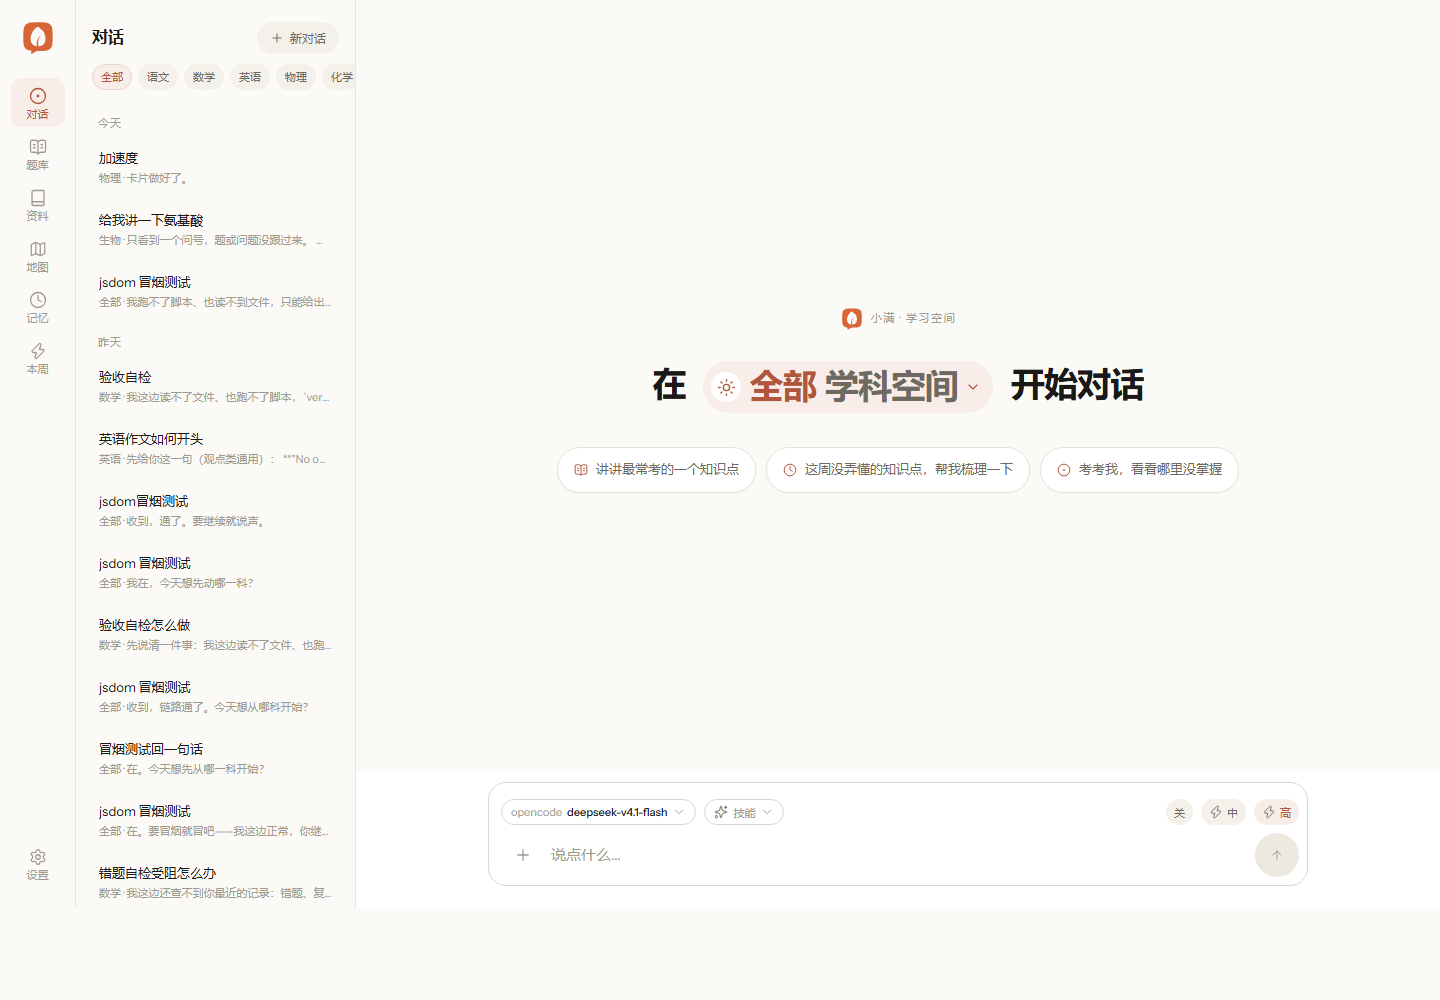
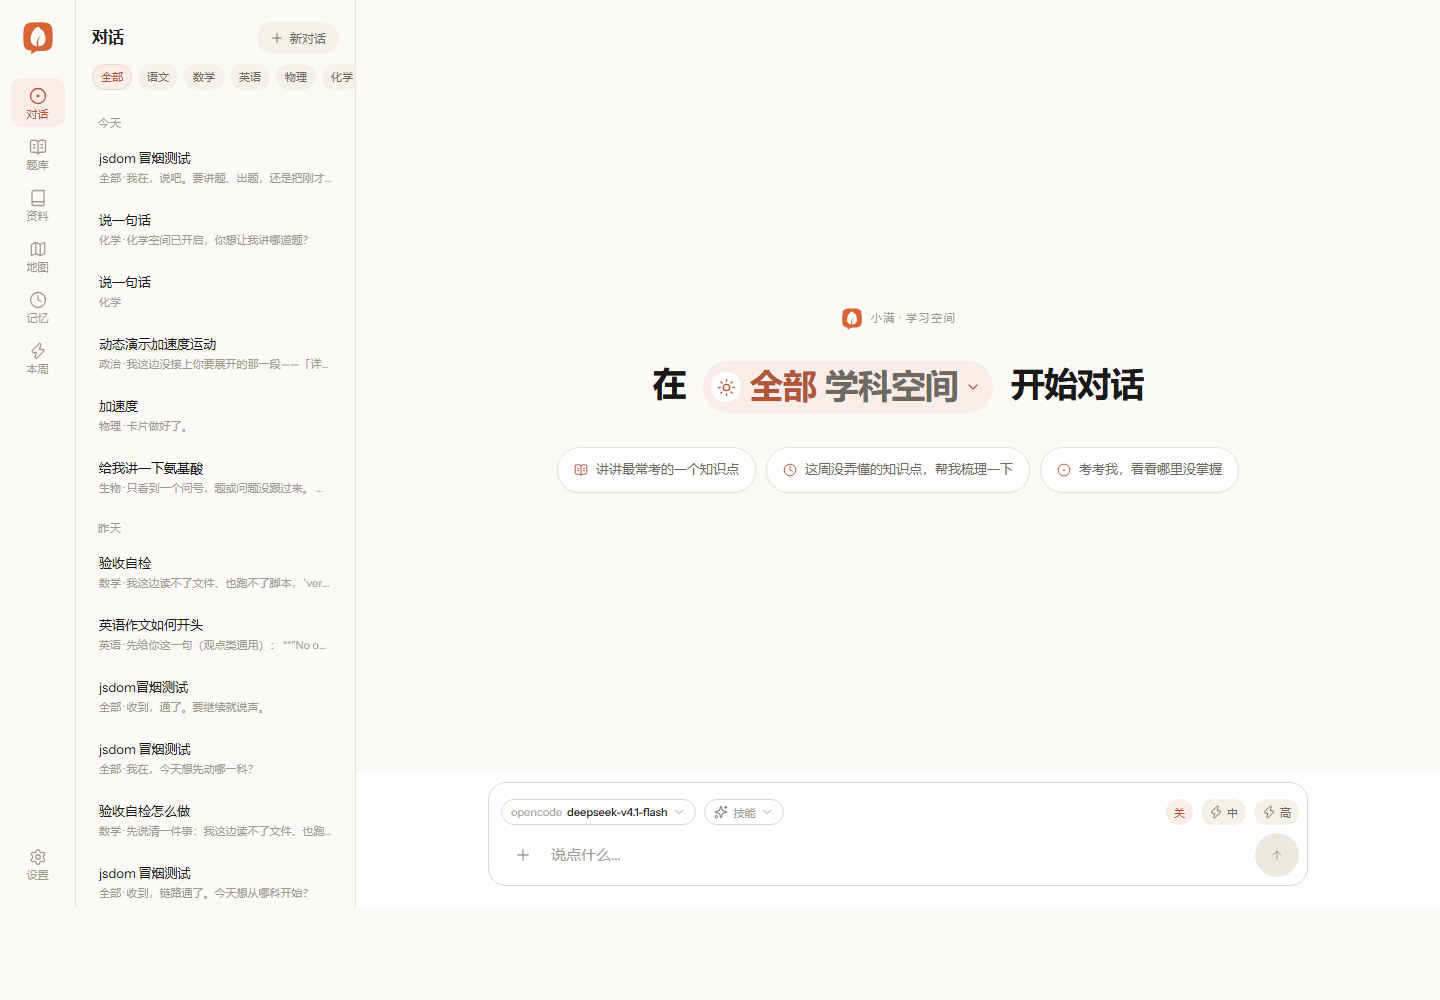
feat(agent): 受限工作区文件工具，技能自生成网页/PDF 并发布；移除继续改按钮

diff --git a/web/app.js b/web/app.js
@@ -2656,6 +2656,11 @@
     quiz_create: ['出题检测', 'circle-dot'],
     make_webpage: ['生成讲解网页', 'globe'],
     make_pdf: ['生成 PDF', 'book-open-text'],
+    file_list: ['看工作区', 'book-open-text'],
+    file_read: ['读文件', 'book-open-text'],
+    file_write: ['写文件', 'book'],
+    file_edit: ['改文件', 'book'],
+    publish: ['发布文件', 'globe'],
     make_card: ['生成知识卡片', 'image'],
     make_flashcards: ['生成记忆闪卡', 'book']
   };
@@ -2952,8 +2957,6 @@
       '<div class="shd"><div class="ttl" id="am-ttl">' + esc(o.title || '资料') + '</div>' +
       '<button type="button" class="hit" data-act="close-sheet" aria-label="关闭">' + ic('x') + '</button></div>' +
       '<div class="sheet-body"><div class="artlist">' +
-        '<button type="button" class="caprow" data-act="artifact-continue" data-id="' + esc(o.id) + '">' +
-          '<span class="rowmain">' + ic('sparkles', 'sm') + '继续改</span></button>' +
         '<button type="button" class="caprow" data-act="artifact-rename-open" data-id="' + esc(o.id) + '">' +
           '<span class="rowmain">' + ic('settings', 'sm') + '重命名</span></button>' +
         (dl ? '<a class="caprow" href="' + esc(dl) + '"><span class="rowmain">' + ic('book-open-text', 'sm') + '下载</span></a>' : '') +
@@ -3067,7 +3070,7 @@
     host.innerHTML = '<div class="pvhead"><div class="pvt">' + esc(a.title || '资料') + '</div>' +
       '<div class="pvmeta">' + (a.parent_title ? '改自 ' + esc(a.parent_title) + ' · ' : '') + esc(k[0]) + ' · ' + esc(fmtBytes(a.bytes)) + '</div>' +
       '<div class="sp"></div>' +
-      '<button type="button" class="pvact" data-act="artifact-continue" data-id="' + esc(a.id) + '">继续改</button>' +
+      '<button type="button" class="pvact" data-act="artifact-rename-open" data-id="' + esc(a.id) + '">改名</button>' +
       '<a class="pvact" href="' + esc(a.url) + '" target="_blank" rel="noopener">新窗口</a>' +
       '<a class="pvact" href="' + esc(dl) + '">下载</a>' +
       '<button type="button" class="pvx" data-act="close-preview" aria-label="关闭预览">' + ic('x') + '</button></div>' +
@@ -3219,17 +3222,19 @@
     var head = [];
     head.push(totalMs ? '思考 ' + stepSecs(totalMs) : (tools ? '调用工具' : '记忆'));
     if (tools) {
-      var cat = { question: 0, web: 0, memory: 0, create: 0 };
+      var cat = { question: 0, web: 0, memory: 0, file: 0, create: 0 };
       toolNames.forEach(function (n) {
         if (n.indexOf('question_') === 0) cat.question += 1;
         else if (n === 'web_search') cat.web += 1;
         else if (n.indexOf('memory_') === 0) cat.memory += 1;
-        else if (n.indexOf('make_') === 0 || n === 'quiz_create') cat.create += 1;
+        else if (n.indexOf('file_') === 0) cat.file += 1;
+        else if (n === 'publish' || n.indexOf('make_') === 0 || n === 'quiz_create') cat.create += 1;
       });
       var bits = [];
       if (cat.question) bits.push('查题库 ' + cat.question + ' 次');
       if (cat.web) bits.push('搜索 ' + cat.web + ' 次');
       if (cat.memory) bits.push('查记忆 ' + cat.memory + ' 次');
+      if (cat.file) bits.push('工作区 ' + cat.file + ' 次');
       if (cat.create) {
         var uniq = createNames.filter(function (v, i, a) { return a.indexOf(v) === i; });
         bits.push(uniq.length === 1 ? toolMeta(uniq[0])[0] : '生成 ' + cat.create + ' 次');

diff --git a/server/app/services/artifacts.py b/server/app/services/artifacts.py
@@ -383,6 +383,51 @@ def save_artifact(
     return artifact
 
 
+def workspace_root() -> Path:
+    p = Path(settings.workspace_dir)
+    if p.is_absolute():
+        return p.resolve()
+    # 从 server/ 或仓库根启动都能找到 agent/workspaces
+    for base in (Path.cwd(), Path(__file__).resolve().parents[2]):
+        q = (base / p).resolve()
+        if q.exists():
+            return q
+    return (Path.cwd() / p).resolve()
+
+
+def publish_workspace(
+    db: Session,
+    *,
+    conversation_id: str,
+    message_id: str | None,
+    path: str,
+    title: str,
+    kind: str = "html",
+    subject: str = "",
+    skill: str = "",
+) -> Artifact:
+    """把受限工作区里的 HTML 文件发布成资料库产物；PDF 交给 Edge 打印。"""
+    ws = workspace_root() / conversation_id
+    target = (ws / path).resolve()
+    if not target.is_relative_to(ws.resolve()) or not target.is_file():
+        raise ValueError("工作区里没有这个文件")
+    doc = target.read_text(encoding="utf-8")
+    if not doc.strip():
+        raise ValueError("文件是空的")
+    real_kind = "pdf" if kind == "pdf" else "html"
+    return save_artifact(
+        db,
+        conversation_id=conversation_id,
+        message_id=message_id,
+        kind=real_kind,
+        title=title or target.stem,
+        subject=subject,
+        document=doc,
+        source_md=doc,
+        skill=skill,
+    )
+
+
 def source_path(aid: str) -> Path:
     return _art_dir() / f"{aid}.src.html"
 

diff --git a/server/app/api/internal.py b/server/app/api/internal.py
@@ -421,3 +421,37 @@ def tool_make_flashcards(payload: FlashcardsIn, db: Session = Depends(get_db)):
         "artifact": artifact_service.payload(art),
         "hint": "闪卡已生成，告诉她点开就能翻面",
     }
+
+
+class PublishIn(BaseModel):
+    conversation_id: str
+    message_id: str = ""
+    path: str
+    title: str = ""
+    kind: str = "html"
+    skill: str = ""
+
+
+@router.post("/internal/tools/publish", dependencies=[Depends(guard)])
+def tool_publish(payload: PublishIn, db: Session = Depends(get_db)):
+    from ..models import Conversation
+    from ..services import artifacts as artifact_service
+
+    conv = db.get(Conversation, payload.conversation_id)
+    if conv is None:
+        return {"ok": False, "error": "对话不存在"}
+    try:
+        art = artifact_service.publish_workspace(
+            db,
+            conversation_id=conv.id,
+            message_id=payload.message_id or None,
+            path=payload.path,
+            title=payload.title,
+            kind=payload.kind,
+            subject=conv.subject or "",
+            skill=payload.skill,
+        )
+    except Exception as exc:  # noqa: BLE001
+        db.rollback()
+        return {"ok": False, "error": str(exc)[:240]}
+    return {"ok": True, "artifact": artifact_service.payload(art), "hint": "文件已发布，卡片会出现在这一轮消息里"}

diff --git a/server/app/config.py b/server/app/config.py
@@ -17,6 +17,7 @@ class Settings(BaseSettings):
     database_url: str = "postgresql+psycopg://postgres@127.0.0.1:5433/xiaoman_dev"
     app_token: str = ""
     app_base_url: str = "http://127.0.0.1:8787"  # 生成 PDF 时让 Edge 打开本服务的产物页
+    workspace_dir: str = "../agent/workspaces"  # Pi 的受限工作区根目录
     data_dir: str = "../data/uploads"
     web_dir: str = "../web"
     auto_create: int = 0

diff --git a/server/tests/verify.py b/server/tests/verify.py
@@ -195,7 +195,7 @@ def check_api(run: Run) -> None:
 
             events: list[str] = []
             with client.stream(
-                "POST", "/api/v1/chat", json={"text": "验收自检", "image_ids": []}
+                "POST", "/api/v1/chat", json={"text": "说一句话", "image_ids": []}
             ) as resp:
                 for line in resp.iter_lines():
                     if line.startswith("data:"):

diff --git a/docs/39-工作区与文件技能.md b/docs/39-工作区与文件技能.md
@@ -1,0 +1,121 @@
+# 39 · 受限工作区与文件技能
+
+> 之前「继续改」是个按钮，必须点它才能把原稿带给模型；不点就像失忆。
+> 现在给她一个**按对话隔离的受限工作区**：网页、讲义这些由她自己读写文件完成，
+> 下一轮直接 `file_list / file_read / file_edit / publish`，不再需要「继续改」按钮。
+
+代码：`agent/server.mjs`（file tools）· `server/app/api/internal.py`（publish）·
+`server/app/services/artifacts.py`（workspace publish）· `agent/skills.json`
+· 文档：`docs/38`
+
+---
+
+## 1. 工作区
+
+```
+agent/workspaces/<conversation_id>/
+  index.html          ← 她自己写的网页
+  handout.html        ← 她自己写的讲义
+  ...
+```
+
+- 每个对话一个目录，跨轮保留；换对话 = 换工作区；
+- 目录在 `.gitignore` 里，不进仓库；
+- 文件技能只有 **读 / 写 / 改 / 列 / 发布**，没有 shell、没有工作区外的读写。
+
+### 文件工具
+
+| 工具 | 作用 |
+|---|---|
+| `file_list` | 看工作区里有哪些文件（相对路径 + 大小） |
+| `file_read` | 读一个文本文件，改之前先读原稿 |
+| `file_write` | 创建/覆盖完整文件 |
+| `file_edit` | 精确替换一段原文 |
+| `publish` | 把工作区文件发布成资料（HTML）或打印成 PDF |
+
+所有路径都经过 `workspacePath()` 校验：`resolve` 后必须还在当前对话目录里，
+`../` 或绝对路径直接拒绝。这是「受限空间」的边界。
+
+---
+
+## 2. 技能：自己生成，不再拼 Markdown
+
+| 技能 | 现在怎么做 | 之前 |
+|---|---|---|
+| **讲解网页** | `file_write` 写完整 `index.html` → `publish` kind=html | 模型交 Markdown，服务端套模板 |
+| **PDF 讲义** | `file_write` 写 `handout.html` → `publish` kind=pdf，服务端 Edge 打印 | 模型交 Markdown，服务端排版 |
+| **错题报告** | `question_search` → `file_write report.html` → `publish` pdf | 同上 |
+| **知识卡片** | 仍用固定 `make_card`（1080×1440，模板渲染） | 保留 |
+| **记忆闪卡** | 仍用固定 `make_flashcards`（翻面卡模板） | 保留 |
+
+也就是说：**除了固定格式的卡片/闪卡，其余产物由 Agent 自己写文件**。
+模板只负责卡片这种「必须一卡一点」的稳定版式。
+
+---
+
+## 3. 上下文不再依赖按钮
+
+第一轮：
+
+```
+她：用讲解网页讲一下「离子反应发生的条件」
+她：file_list → file_write index.html → publish
+```
+
+第二轮（同一个对话，直接说）：
+
+```
+她：把标题改得更醒目，其它保持
+她：file_list → file_read index.html → file_edit ×2 → publish
+```
+
+不再需要点「继续改」。原来的「继续改」按钮已经从预览栏和资料菜单里移除；
+`artifact_context` 这套旧逻辑保留做兼容，但正常修改走工作区。
+
+Pi 的会话本身也按对话持久化，工作区文件同时保留；
+即使上下文被压缩，`file_list` 仍然能把文件找回来。
+
+---
+
+## 4. 发布链路
+
+```
+Agent file_write(index.html)
+        │
+        ▼
+publish(path=index.html, kind=html)
+        │  /internal/tools/publish
+        ▼
+server 读工作区 HTML → 校验路径 → 写入 data/artifacts/{id}.html
+        │
+        └── 本轮结束，assistant parts 追加 artifact 卡 → 右侧预览 / 资料库
+```
+
+- `kind=pdf` 用同一份 HTML，交给本机 Edge 打印；
+- 预览/资料库仍是原来的产物体系，不需要新页面；
+- 工作区原文件不删，之后还能继续读、继续改。
+
+---
+
+## 5. 验收
+
+- **两轮真实链路**（同一个对话）：
+  - 第一轮：`file_list → file_write ×2 → publish`，产物 10 KB HTML；
+  - 第二轮：`file_list → file_read → file_edit ×2 → publish`，产物更新；
+  - 没有点任何「继续改」按钮。
+- **PDF 链路**：`file_write handout.html → publish kind=pdf`，215 KB PDF。
+- 工具显示：`思考 44 秒 · 工作区 4 次 · 生成 1 次`。
+- 回归：`ui-hero` 12、资料库 17、技能 7、题库 19、地图 18、主题 12、学习闭环 13；
+  `verify` 40 PASS（chat_sse 的测试提示改为短句，避免每次验收都触发长工具链）。
+
+---
+
+## 6. 边界
+
+| 项 | 说明 |
+|---|---|
+| 没有 shell | 只给文件读写，不给 bash；需要命令的能力（如打印 PDF）由服务端工具代劳 |
+| 工作区按对话 | 换对话就是新工作区；旧对话的产物仍在资料库，但不在新对话的目录里 |
+| 发布是复制 | 工作区文件与 `data/artifacts` 是两份；改工作区后要重新 publish |
+| 无版本树 | 每次 publish 生成一个新产物；还没有「版本 1/2/3」折叠 |
+| 工作区不清理 | 文件会一直留着；M6 备份/清理时一起处理 |

diff --git a/README.md b/README.md
@@ -31,7 +31,8 @@
 | **知识地图（P5）** | ✅ 一科一张知识点网：学科/模块/章切换、章级总览、先修链跳转、搜索定位 | `docs/31` |
 | **学习闭环** | ✅ 回答后自动沉淀（可撤销）、Agent 出题检测、每日主动消息；错题并进题库 | `docs/33` |
 | **技能** | ✅ 输入框旁选技能：讲解网页 / PDF 讲义 / 错题报告 / 知识卡片 / 记忆闪卡 | `docs/34` |
-| **资料库 + 双栏预览** | ✅ 产物收藏/搜索/改名/删除、右侧预览、继续改；卡片/闪卡技能 | `docs/35` `docs/36` |
+| **资料库 + 双栏预览** | ✅ 产物收藏/搜索/改名/删除、右侧预览 | `docs/35` `docs/36` |
+| **工作区 / 文件技能** | ✅ Agent 在按对话隔离的工作区写 HTML/PDF 并发布；卡片/闪卡仍固定模板 | `docs/39` |
 | **设计规范** | ✅ 选方向 A：新对话页、Logo、侧栏/顶栏/输入框纸感适配；组件规范 | `docs/37` `docs/38` |
 
 > 设计与规范已经足够详细，可以直接照着写代码。见 [§13 从这里开始](#13-从这里开始)。
@@ -562,7 +563,7 @@ cd server
 | **产品闭环：提问即学习** | **`32`** | **学习闭环：沉淀 / 检测 / 主动消息** | **`33`** |
 | **技能：讲解网页 / PDF 讲义 / 错题报告** | **`34`** | **资料库 / 双栏预览 / 卡片闪卡** | **`35`** |
 | **资料库管理 / 继续改 / 界面打磨** | **`36`** | **设计组件规范 / AntX & Astryx 评估** | **`37`** |
-| **新对话页 / A 方向落地 / Logo** | **`38`** | | |
+| **新对话页 / A 方向落地 / Logo** | **`38`** | **受限工作区 / 文件技能** | **`39`** |
 | 对话列表 / 平板侧栏 / 本周 / 自动标题 | `26`–`29` | | |
 
 ---

diff --git a/docs/34-技能-讲解网页与PDF.md b/docs/34-技能-讲解网页与PDF.md
@@ -1,4 +1,6 @@
 # 34 · 技能：讲解网页 / PDF 讲义 / 错题报告
+> 网页 / PDF 已改为 Agent 在受限工作区自己写文件并 publish，见 docs/39；本文保留早期「Markdown → 模板」的链路记录。
+>
 
 > 之前的「技能」是给模型看的文件（`answer-question`）。这次做的是**用户可选的技能**：
 > 选一个，输入框前面出现一枚胶囊，这一轮就按这个技能的流程做，最后交付一个**文件**。

diff --git a/docs/36-资料库管理与界面打磨.md b/docs/36-资料库管理与界面打磨.md
@@ -1,4 +1,6 @@
 # 36 · 资料库管理、继续改与界面打磨
+> 「继续改」按钮已移除，改为 Agent 工作区自然续改，见 docs/39。
+>
 
 > `docs/35` 把资料库和双栏预览立起来了。这一版把「还差的那几项」补齐：
 > 搜得到、改得动、删得掉、能基于原稿继续改、闪卡能自评，界面也收了一轮。

diff --git a/docs/35-资料库与双栏预览.md b/docs/35-资料库与双栏预览.md
@@ -1,4 +1,6 @@
 # 35 · 资料库、双栏预览、知识卡片与闪卡
+> 「继续改」按钮已移除，改为 Agent 工作区自然续改，见 docs/39。
+>
 
 > 技能生成的东西开始变多了，需要一个地方收；产物也不该每次都跳新窗口，应该能在右边看。
 > 后续的管理、继续改、界面打磨见 docs/36。
